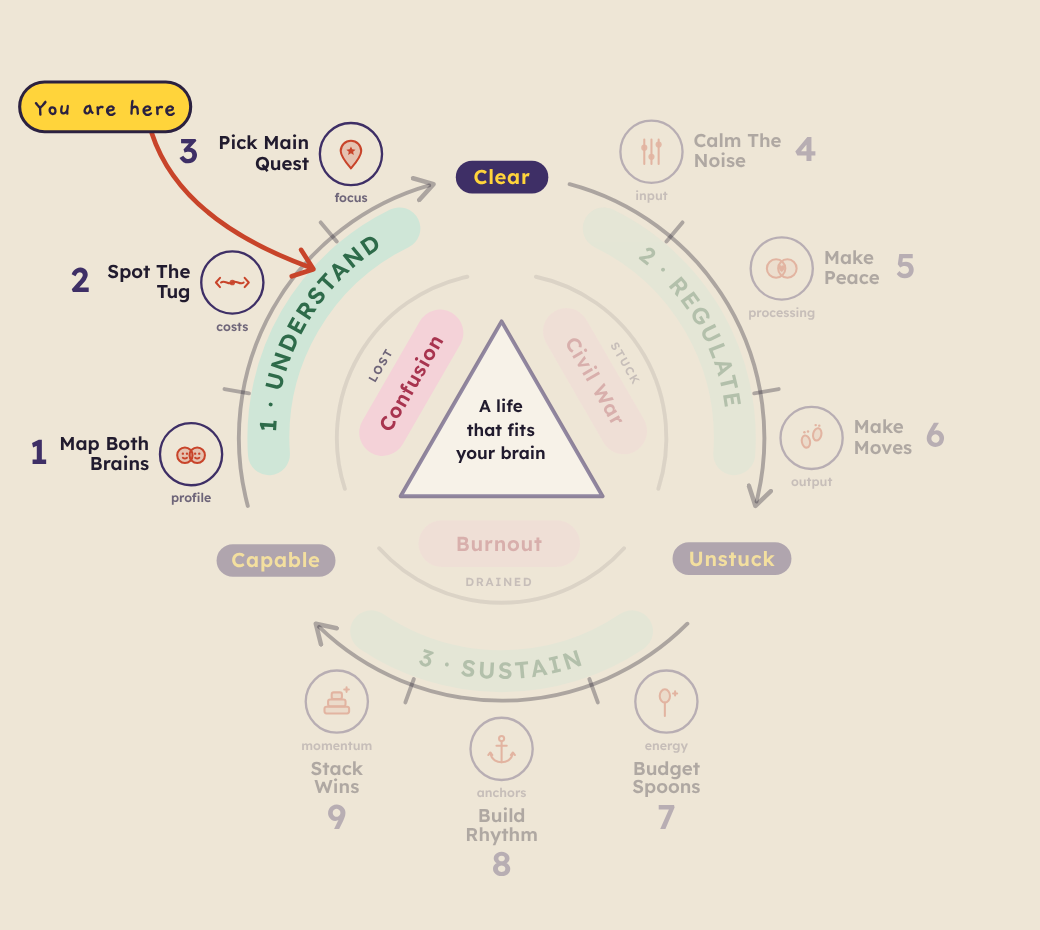
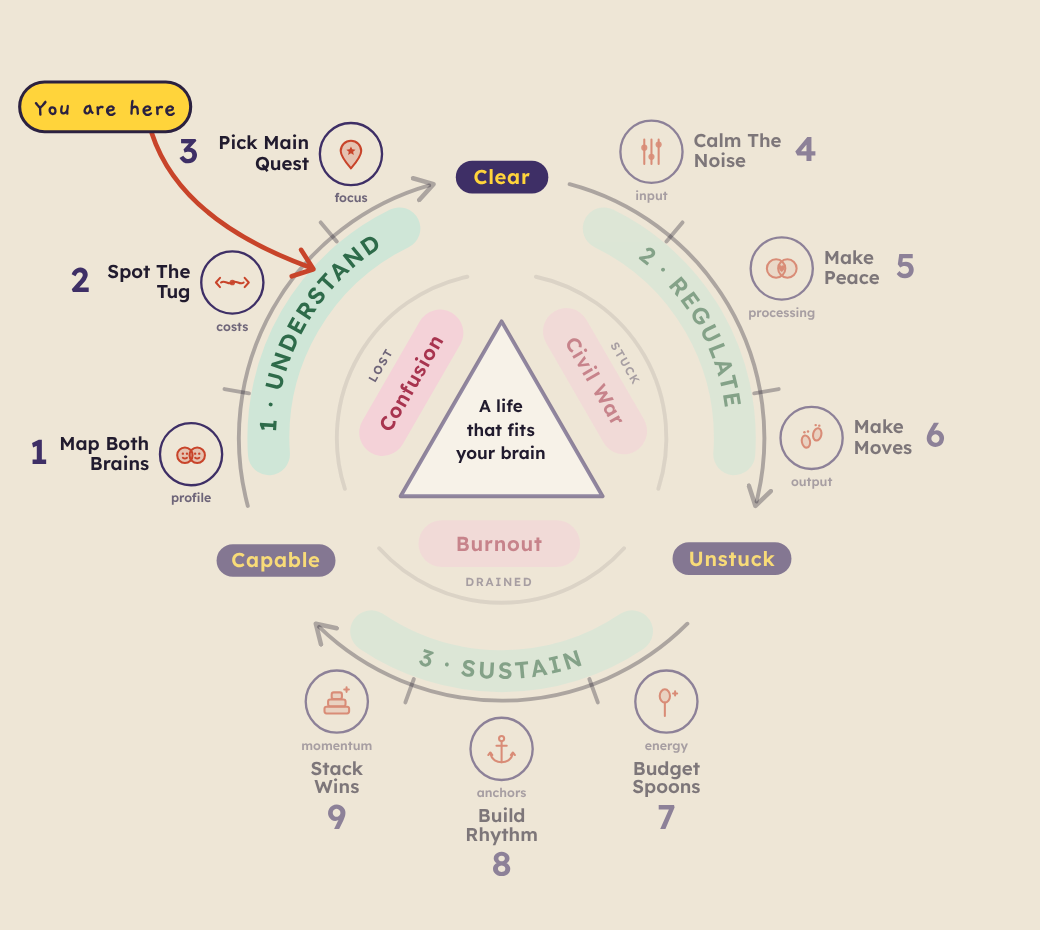
v3: softer fade on Levels 2-3, 'No more half-answers'
Claude-Session: https://claude.ai/code/session_0137s9qQiZzVnbSJ8uSMqpC7

diff --git a/gumroad/pre-diagnosis-v3.html b/gumroad/pre-diagnosis-v3.html
@@ -334,7 +334,7 @@ details p{margin-top:8px;font-size:15.5px;color:var(--ink2)}
   <h2>What makes it&nbsp;different</h2>
   <p class="big" style="text-align:center">No two AuDHD brains look the same, so your plan shouldn't&nbsp;either.</p>
   <div class="diff">
-    <div><b>Both brains, same&nbsp;questions</b><span>ADHD and autism, side by side.<br>So neither one hides the&nbsp;other.</span></div>
+    <div><b>No more half-answers</b><span>ADHD and autism in one place,<br>so neither one hides the&nbsp;other.</span></div>
     <div><b>Where they&nbsp;collide</b><span>The 7 places your two brains want opposite things.<br>The part no test asks&nbsp;about.</span></div>
     <div><b>A custom plan for your&nbsp;brain</b><span>Your shape decides where you start, and which tools fit you.<br>Help the person, not the&nbsp;label.</span></div>
   </div>
